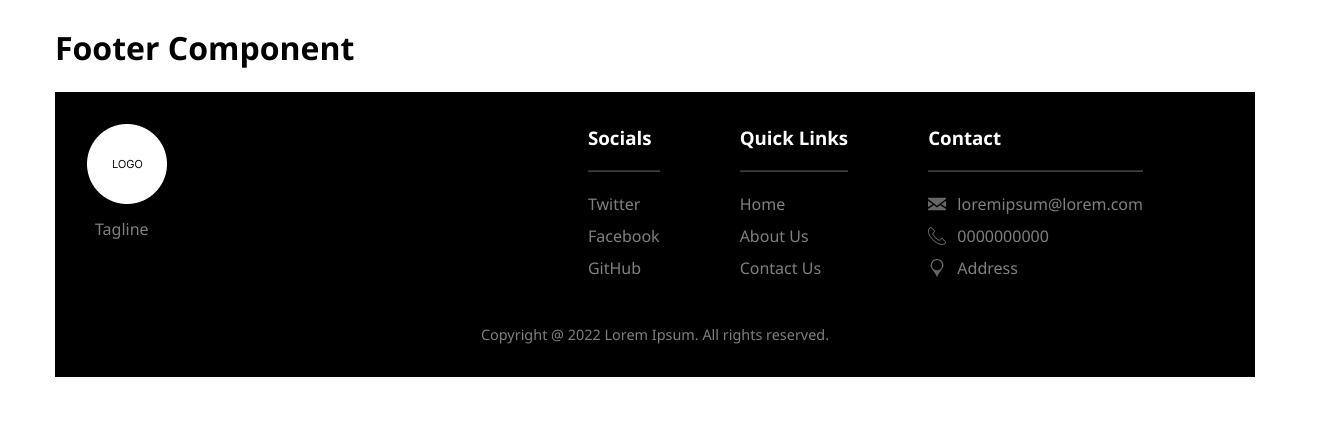
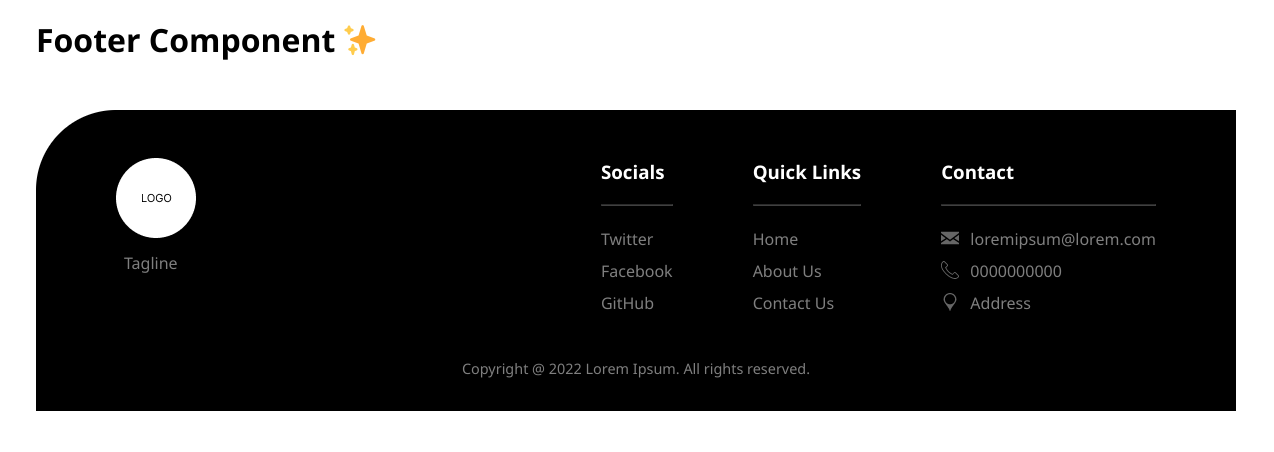
added footer component

diff --git a/Footer-Section/styles/index.css b/Footer-Section/styles/index.css
@@ -12,7 +12,9 @@ main{
 footer{
     background: black;
     color: white;
-    padding: 2rem;
+    padding: 3rem 5rem 2rem 5rem;
+    margin-top: 3rem;
+    border-radius: 5rem 0rem 0rem 0rem;
 }
 .footer__link__list{
     list-style: none;
@@ -40,7 +42,7 @@ footer{
     flex-wrap: wrap;
 }
 
-.footer__links__section{
+.footer__links__section:not(:last-child){
     margin: 0rem 5rem 0rem 0rem;
     
 }

diff --git a/Footer-Section/index.html b/Footer-Section/index.html
@@ -10,7 +10,7 @@
 </head>
 <body>
     <main>
-        <h1>Footer Component</h1> 
+        <h1>Footer Component ✨</h1> 
         <footer>
             <div class="footer__main__content">
                 <div>
